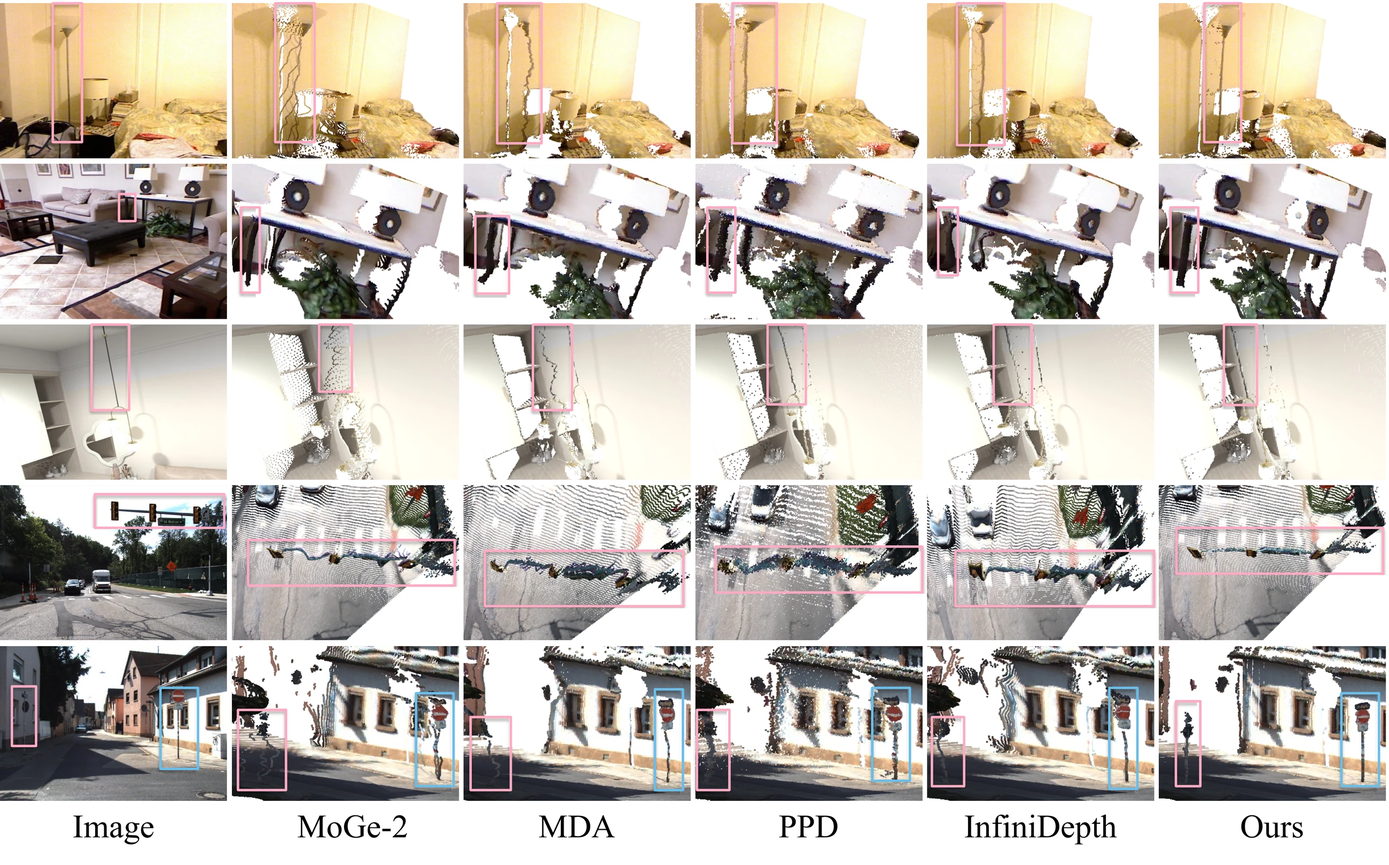
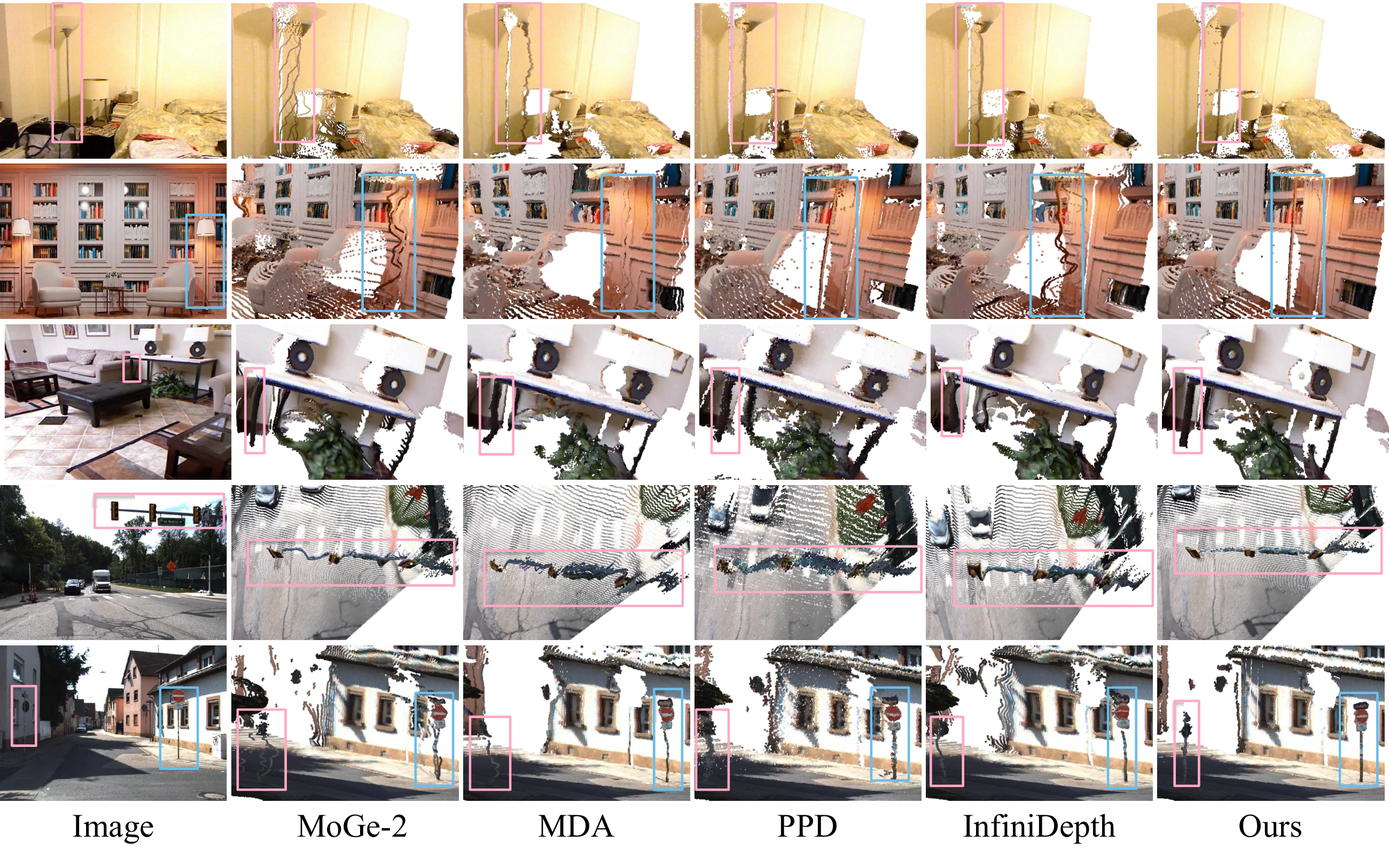
Update qualiattive comparison.

diff --git a/index.html b/index.html
@@ -524,10 +524,10 @@
           <figure class="media-panel result-figure">
             <div class="media-canvas result-media-canvas">
               <img
-                src="static/media/pixdepth/results.webp"
+                src="static/media/pixdepth/results.webp?v=20260816-2"
                 alt="Qualitative point-cloud comparison between MoGe-2, MDA, PPD, InfiniDepth, and PXDepth across indoor and outdoor scenes."
                 width="2600"
-                height="1620"
+                height="1619"
                 loading="lazy"
               />
               <div class="result-image-labels" aria-label="Compared methods">
